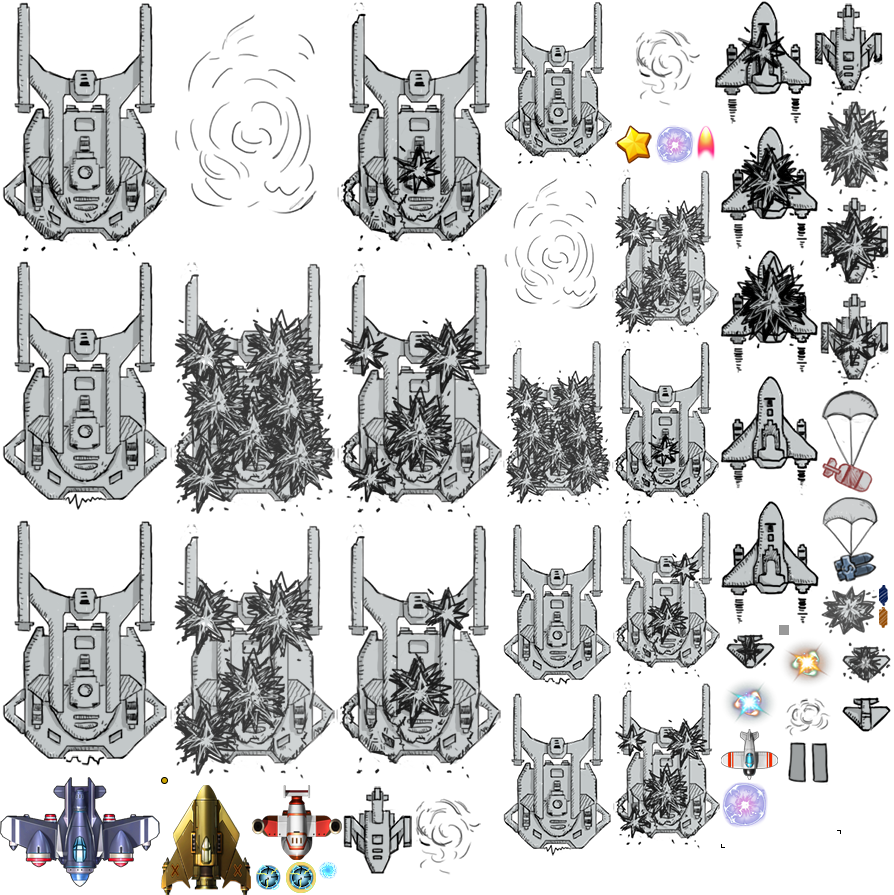
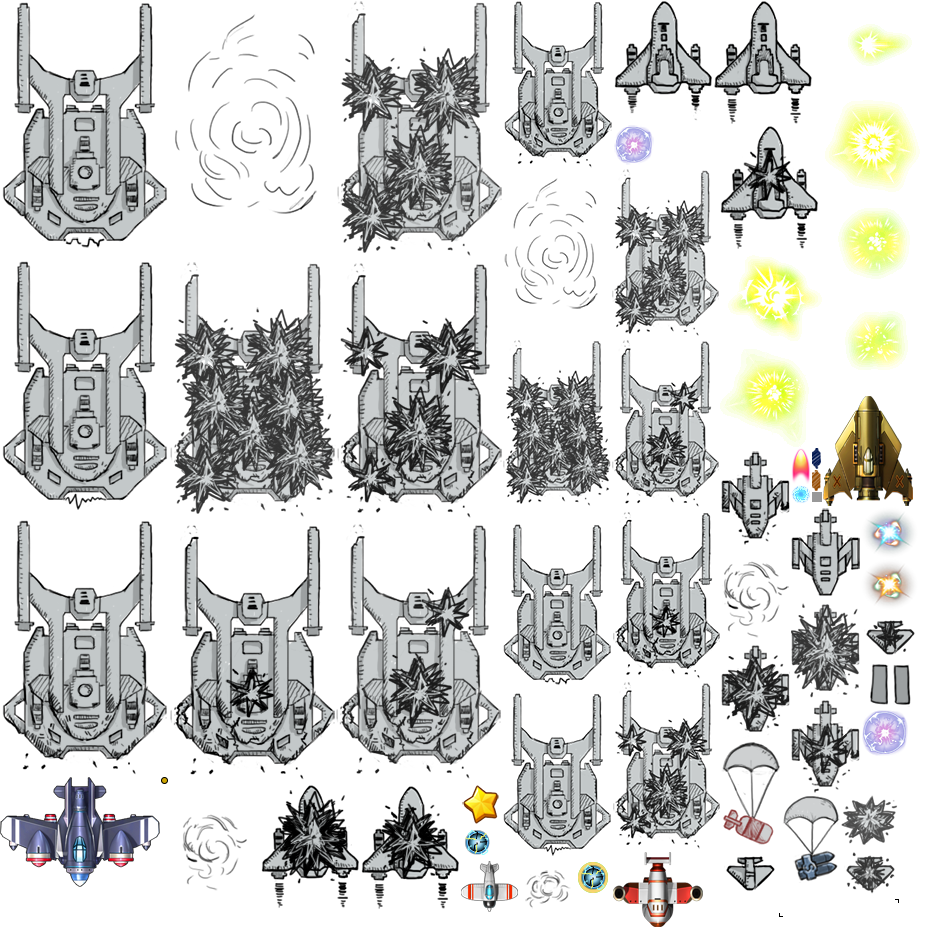
com

diff --git a/src/scene/PlayScene.js b/src/scene/PlayScene.js
@@ -15,6 +15,7 @@ var PlayScene = (function (_super) {
         this.heroBoomBox = ObjectHolder.heroBoomBox;
         this.itemBox = ObjectHolder.itemBox;
         this.hero = ObjectHolder.hero;
+        this.effectBox = ObjectHolder.effectBox;
         this.test = true;
         //创建UI界面
         this.playUI = ObjectHolder.playUI;
@@ -37,6 +38,7 @@ var PlayScene = (function (_super) {
         this.addChild(this.itemBox);
         this.addChild(this.hero);
         this.addChild(this.enemyBulletBox);
+        this.addChild(this.effectBox);
         this.addChild(this.playUI);
         Laya.timer.frameLoop(1, this, this.onLoop);
         GameHolder.gameData.appearBossIndex = 0;
@@ -151,8 +153,9 @@ var PlayScene = (function (_super) {
 
                 // 敌机移动&攻击
                 for(var i = 0; i < this.enemyBox.numChildren; i++){
-                    this.enemyBox.getChildAt(i).attack();
-                    this.enemyBox.getChildAt(i).moveAndRecover();
+                    var enemy = this.enemyBox.getChildAt(i);
+                    enemy.attack();
+                    enemy.moveAndRecover();
                 }
 
                 // 物品移动

diff --git a/src/obj/effect/Effect.js b/src/obj/effect/Effect.js
@@ -1,0 +1,41 @@
+/*
+* name;
+*/
+var Effect = (function (_super) {
+    function Effect() {
+    }
+
+    Laya.class(Effect, "Effect", _super);
+
+    var _proto = Effect.prototype;
+
+    // 类名
+    _proto.className = 'Effect';
+    // 动画名
+    _proto.ani = 'no';
+
+    _proto.init = function(opts) {
+        _super.call(this, opts);
+        // _super.prototype.init.call(this, opts);
+        opts = opts || {};
+        this.x = opts.x || 0;
+        this.y = opts.y || 0;
+        this.isLoop = opts.isLoop || false;
+        this.play(0, true, this.ani);
+        this.setBounds(this.getBounds());
+        this.pivot(this.getBounds().width/2, this.getBounds().height/2);
+        this.on(Laya.Event.COMPLETE, this, this.onPlayComplete);
+    }
+
+    // _proto.play = function() {
+    //     _super.play.call(this);
+    // }
+    _proto.onPlayComplete = function() {
+        if(!this.isLoop) {
+            this.removeSelf();
+            Laya.Pool.recover(this.className, this);
+        }
+    }
+    
+    return Effect;
+}(Laya.Animation));

diff --git a/src/obj/ObjectHolder.js b/src/obj/ObjectHolder.js
@@ -11,6 +11,7 @@ var ObjectHolder = (function () {
         this.heroBoomBox = new Laya.Sprite();
         this.enemyBulletBox = new Laya.Sprite();
         this.enemyFactory = new BaseEnemyFactory();
+        this.effectBox = new Laya.Sprite();
         this.itemBox = new Laya.Sprite();
         this.hero = new Hero();
         this.playUI = new PlayUI({'maxHeroHp': this.hero.maxHp});
@@ -29,6 +30,8 @@ var ObjectHolder = (function () {
         this.heroBulletBox = new Laya.Sprite();
         this.itemBox.destroy();
         this.itemBox = new Laya.Sprite();
+        this.effectBox.destroy();
+        this.effectBox = new Laya.Sprite();
         this.hero.destroy();
         this.hero = new Hero();
         this.playUI.destroy();

diff --git a/bin/index.html b/bin/index.html
@@ -41,6 +41,7 @@
 	<script src="../src/ui/layaUI.max.all.js"></script>
 	<script src="../src/obj/GameHolder.js"></script>
 	<!--jsfile--startTag-->
+
 	<script src="../src/obj/GameHolder.js"></script>
 	<script src="../src/myUI/DeadUI.js"></script>
 	<script src="../src/myUI/UpgradeUI.js"></script>
@@ -76,6 +77,10 @@
 	<script src="../src/obj/role/enemy/factory/BaseEnemyFactory.js"></script>
 
 	<script src="../src/obj/role/hero/Hero.js"></script>
+
+	<script src="../src/obj/effect/Effect.js"></script>
+	<script src="../src/obj/effect/EffectSpark.js"></script>
+
 
 	<script src="../src/scene/EndScene.js"></script>
 	<script src="../src/config/Asset.js"></script>

diff --git a/src/scene/LoadScene.js b/src/scene/LoadScene.js
@@ -129,6 +129,18 @@ var LoadScene = (function (_super) {
         Laya.Animation.createFrames(["resource/role/upgrade.png"],"upgrade_fly");
 		//缓存升级球
         Laya.Animation.createFrames(["resource/ui/hpLogo.png"],"heroHp_fly");
+
+        //缓存火花效果
+        Laya.Animation.createFrames(["resource/role/effect_spark1.png",
+        "resource/role/effect_spark2.png",
+        "resource/role/effect_spark3.png",
+        "resource/role/effect_spark4.png",
+        "resource/role/effect_spark5.png",
+        "resource/role/effect_spark6.png"
+        ]
+        ,"effect_spark");
+
+
     }
 	return LoadScene;
 

diff --git a/src/obj/effect/EffectSpark.js b/src/obj/effect/EffectSpark.js
@@ -1,0 +1,30 @@
+/*
+* name;
+*/
+var EffectSpark = (function (_super) {
+    function EffectSpark() {
+    }
+
+    Laya.class(EffectSpark, "EffectSpark", _super);
+
+    var _proto = EffectSpark.prototype;
+
+    // 动画名
+    _proto.ani = 'effect_spark';
+
+    // 类名
+    _proto.className = 'EffectSpark';
+
+    _proto.init = function(opts) {
+        _super.call(this, opts);
+        _super.prototype.init.call(this, opts);
+        
+    }
+
+    // _proto.play = function() {
+    //     _super.play.call(this);
+    // }
+
+    
+    return EffectSpark;
+}(Effect));

diff --git a/src/obj/bullet/Bullet.js b/src/obj/bullet/Bullet.js
@@ -54,6 +54,10 @@ var Bullet = (function (_super) {
         this.removeSelf();
         //回收对象
         Laya.Pool.recover("HeroBullet", this);
+        var effect = Laya.Pool.getItemByClass(EffectSpark.prototype.className, EffectSpark);
+        effect.init({x: this.x, y:this.y});
+        ObjectHolder.effectBox.addChild(effect);
+
     }
 
     return Bullet;
